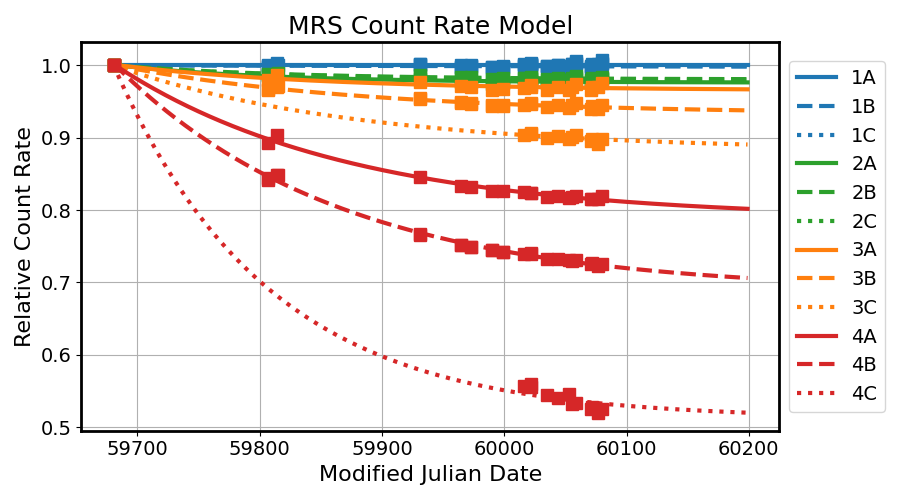
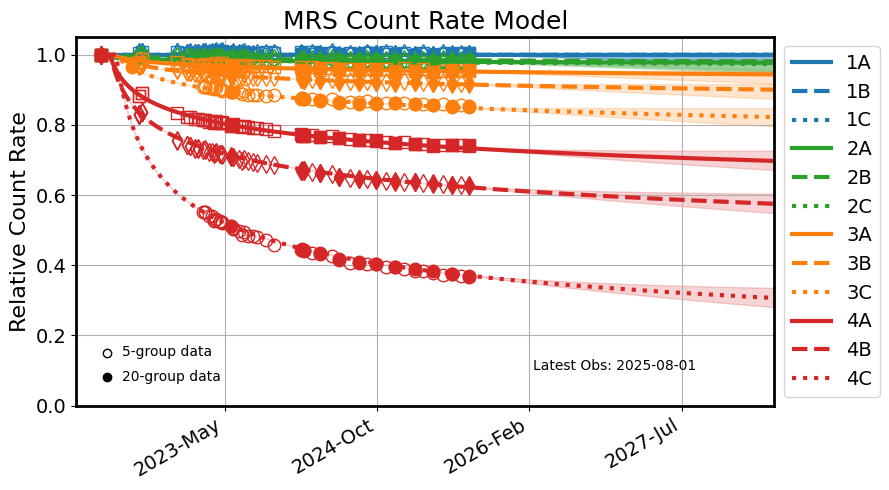
Update MIRI MRS photom description

diff --git a/docs/jwst/photom/main.rst b/docs/jwst/photom/main.rst
@@ -156,9 +156,10 @@ from countrate to surface brightness.
 Variance arrays are multiplied by the square of the conversion factors.
 
 MIRI MRS data have a time-variable photometric response that is significant at
-long wavelengths. A correction has been derived from observations of calibration standard stars.
-The form of the correction uses a power law function that asymptotically approaches a
-constant value in each wavelength band. A plot of the count rate loss in each MRS
+long wavelengths. A correction has been derived from regular observations of internal
+calibration lamps augmented by repeated observations of spectrophotometric standard stars.
+The correction uses a power law function of time with coefficients optimized for each
+of the twelve spectral bands. A plot of the count rate loss in each MRS
 band, as a function of time, is shown in Figure 1.
 
 .. figure:: Model_summary.png
@@ -166,9 +167,12 @@ band, as a function of time, is shown in Figure 1.
    :align: center
 	   
 Figure 1:
-Time-dependent decrease in the observed MRS count rate as measured from internal flat-field exposures.
-Solid points illustrate measurements at the central wavelength of each of the 12 MRS bands;
-curves represent the best fit models used for correction in the pipeline.
+Time-dependent decrease in the observed MRS count rate as measured from internal
+calibration lamp exposures. Points illustrate measurements at the central wavelength
+of each of the 12 MRS bands; curves represent the best fit models used for correction
+in the pipeline. See
+`JDox <https://jwst-docs.stsci.edu/jwst-calibration-status/miri-calibration-status/miri-mrs-calibration-status>`__
+for an updated version of this figure.
 
 The MRS photom reference file contains a table of correction coefficients
 for each band in which a correction has been determined. If the time-dependent
